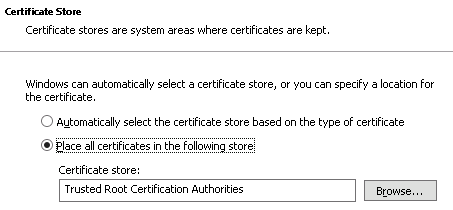
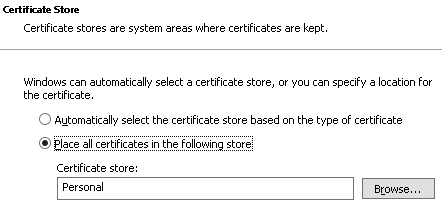
Almost done with SSL

diff --git a/index.htm b/index.htm
@@ -584,17 +584,57 @@ postmaster account.&nbsp; Go figure.</p>
 <p>The email you received will have a Web Server CERTIFICATE at the bottom of 
 the email.&nbsp; Copy and paste this (including the &quot;---BEGIN CERTIFICATE---&quot; 
 and &quot;---END CERTIFICATE---&quot; to your server into a text file.</p>
-<p>Go back to the mmc console and expand the Certificates -&gt; Trusted Root 
-Certification Authority -&gt; Certificates tree.&nbsp; Right click on the 
+<p>Go back to the mmc console and expand the Certificates -&gt; Personal -&gt; 
+Certificates tree.&nbsp; Yes, the &quot;Personal&quot; certificates folder, NOT the 
+Trusted Root Certification Authority folder.&nbsp; Right click on the 
 certificates and select All Tasks -&gt; Import:</p>
-<p><img border="0" src="mmc-15.png" width="595" height="304"></p>
-<p>Place the certificate in the Trusted Root Certification Authorities store:</p>
-<p><img border="0" src="mmc-16.png" width="453" height="210"></p>
+<p><img border="0" src="mmc-15.png" width="569" height="132"></p>
+<p>Place the certificate in the Personal store:</p>
+<p><img border="0" src="mmc-16.png" width="442" height="205"></p>
 <p>Click Next -&gt; Finish -&gt; OK.&nbsp; Your certificate is now in the store, 
 similar to this:</p>
-<p><img border="0" src="mmc-17.png" width="357" height="59"></p>
-<h3>Import the Intermediate Certificate</h3>
-<p>TODO!</p>
+<p><img border="0" src="mmc-17.png" width="518" height="81"></p>
+<h3>Create a Private Key for the Certificate</h3>
+<p>Creating a private key for this certificate is a vital step and I found to be 
+the missing link in much of the documentation that I found on the web.</p>
+<p>First, double-click on the certificate, click on the &quot;details&quot; tab, and note 
+the serial number:</p>
+<p><img border="0" src="mmc-18.png" width="268" height="148"></p>
+<p>Second, in a &quot;start as admin&quot; console window, enter:</p>
+<pre>certutil -repairstore my &quot;093406&quot;</pre>
+<p>replacing the key serial number in my command above with the serial number 
+for your certificate (remove the spaces.)</p>
+<p>Go back to the mmc and press F5.&nbsp; Note the change of the icon on the 
+certificate:</p>
+<p><img border="0" src="mmc-19.png" width="54" height="47"></p>
+<p>It now has a &quot;key&quot; on it!</p>
+<h3>Export the Certificate With its Private Key</h3>
+<p>Right-click on the certificate and export it:</p>
+<p><img border="0" src="mmc-20.png" width="450" height="212"></p>
+<p>Click Next, and on the next dialog, select &quot;Yes, export the private key&quot;:</p>
+<p><img border="0" src="mmc-21.png" width="446" height="185"></p>
+<p>Click Next, then Next again, then enter a password for your key'd 
+certificate:</p>
+<p><img border="0" src="mmc-22.png" width="432" height="328"></p>
+<p>Click Next, enter a file name (without extension), click Next, then Finish.</p>
+<h3>Import the Key'd Certificate in Trusted Root Certificate Authority</h3>
+<p>Right-click on the Certificate folder in the Trusted Root Certificate 
+Authority and select All Tasks -&gt; Import</p>
+<p><img border="0" src="mmc-23.png" width="475" height="192"></p>
+<p>Select the &quot;.pfx&quot; file that was saved in the preceding section.&nbsp; You 
+will be prompted for your password:</p>
+<p><img border="0" src="mmc-24.png" width="435" height="318"></p>
+<p>Click Next, Next, and Finish.&nbsp; When you are done, the &quot;keyed&quot; 
+certificate will be in your Trusted Root Certification Authority list.</p>
+<h3>Bind the Certificate to Port 443</h3>
+<p>Double-click on the certificate and, in the Details tab, scroll down to where 
+the &quot;Thumbnail&quot; is displayed.</p>
+<p>[img]</p>
+<p>At the command prompt, enter:</p>
+<pre>C:\Server&gt;netsh http add sslcert ipport=0.0.0.0:443 certhash=[thumbnail] appid=[some GUID]</pre>
+<p>where [thumbnail] is the digital thumbnail of your certificate, <i>without 
+spaces</i>, and [some GUID] is a GUID of your choosing.</p>
+<p>&nbsp;</p>
 <h3>Verify You Have SSL Connectivity Now</h3>
 <p>Add HTTPS port 443 to both your EC2 inbound rule:</p>
 <p><img border="0" src="ec2-32.png" width="1070" height="35"></p>
